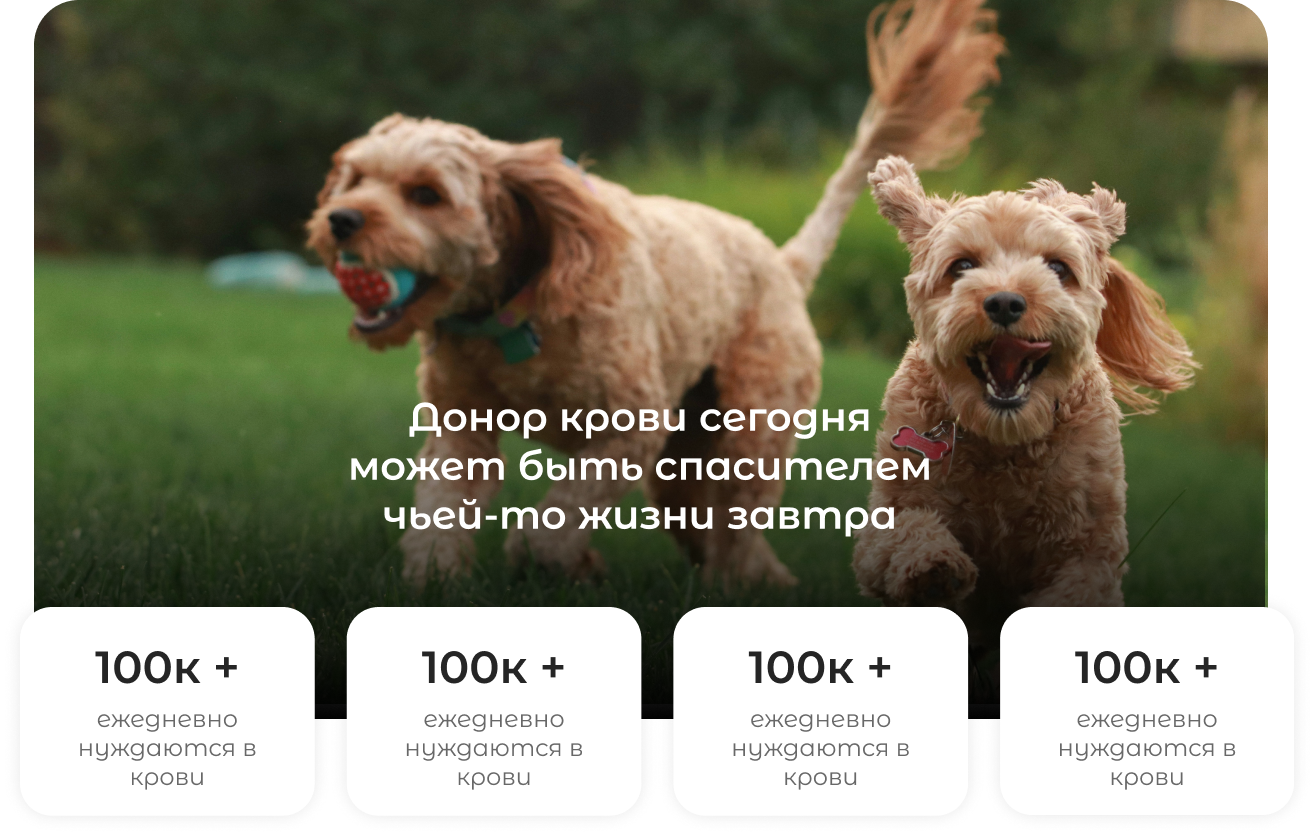
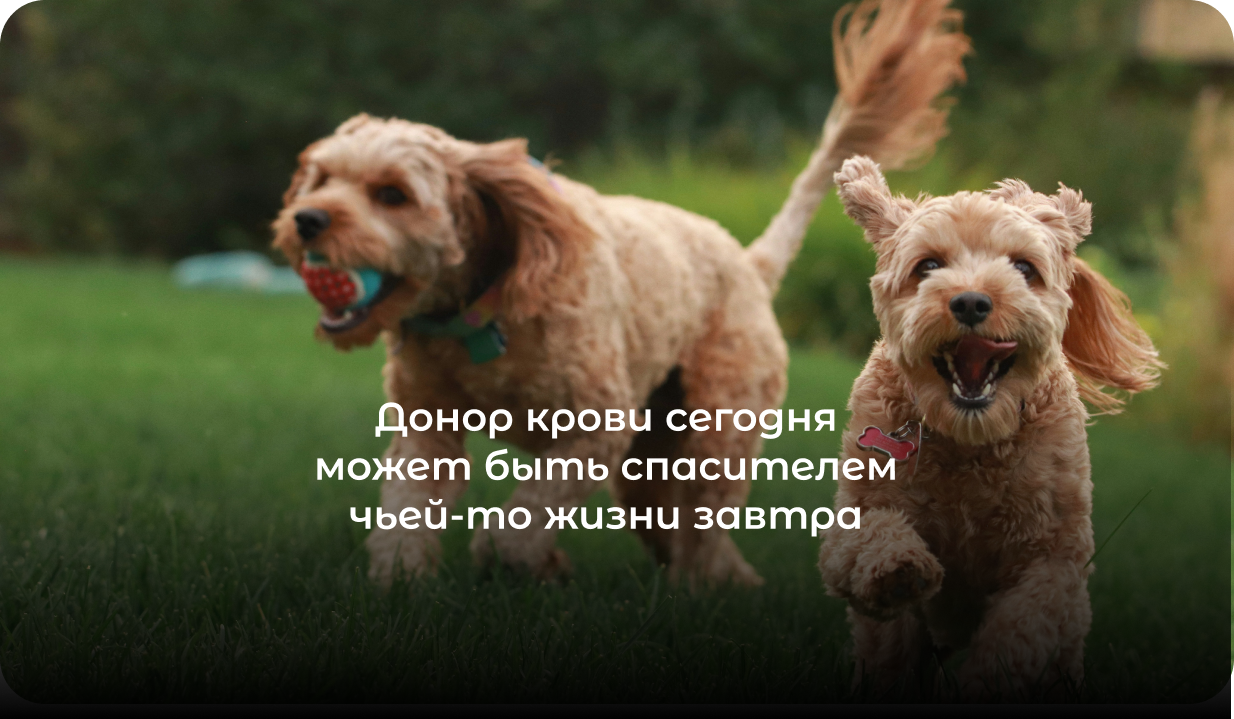
1:22

diff --git a/front_vite/src/components/Question/utils.js b/front_vite/src/components/Question/utils.js
@@ -1,0 +1,9 @@
+export const Questions = [
+    { question: 'Зачем животным сдавать донорскую кровь?', answer: 'Во-первых, владельцы животных-доноров получают возможность контролировать здоровье своего любимца за счет регулярных осмотров ветеринарным врачом и бесплатных анализов крови. Во-вторых, животные-доноры спасают жизни, отдавая ради этого всего лишь часть своей крови.' },
+    { question: 'За какое время восполняется кровь?', answer: 'Во-первых, владельцы животных-доноров получают возможность контролировать здоровье своего любимца за счет регулярных осмотров ветеринарным врачом и бесплатных анализов крови. Во-вторых, животные-доноры спасают жизни, отдавая ради этого всего лишь часть своей крови.' },
+    { question: 'Почему масса кошки должна быть не менее 3кг?', answer: 'Во-первых, владельцы животных-доноров получают возможность контролировать здоровье своего любимца за счет регулярных осмотров ветеринарным врачом и бесплатных анализов крови. Во-вторых, животные-доноры спасают жизни, отдавая ради этого всего лишь часть своей крови.' },
+    { question: 'Почему масса собаки должна быть не менее 20кг?', answer: 'Во-первых, владельцы животных-доноров получают возможность контролировать здоровье своего любимца за счет регулярных осмотров ветеринарным врачом и бесплатных анализов крови. Во-вторых, животные-доноры спасают жизни, отдавая ради этого всего лишь часть своей крови.' },
+    { question: 'Нужно ли мне держать своего питомца при процедуре?', answer: 'Во-первых, владельцы животных-доноров получают возможность контролировать здоровье своего любимца за счет регулярных осмотров ветеринарным врачом и бесплатных анализов крови. Во-вторых, животные-доноры спасают жизни, отдавая ради этого всего лишь часть своей крови.' },
+    { question: 'Как часто сдается кровь?', answer: 'Во-первых, владельцы животных-доноров получают возможность контролировать здоровье своего любимца за счет регулярных осмотров ветеринарным врачом и бесплатных анализов крови. Во-вторых, животные-доноры спасают жизни, отдавая ради этого всего лишь часть своей крови.' },
+    { question: 'Требуется ли подготовка питомца к донации?', answer: 'Во-первых, владельцы животных-доноров получают возможность контролировать здоровье своего любимца за счет регулярных осмотров ветеринарным врачом и бесплатных анализов крови. Во-вторых, животные-доноры спасают жизни, отдавая ради этого всего лишь часть своей крови.' },
+];

diff --git a/front_vite/src/pages/Home/Home.jsx b/front_vite/src/pages/Home/Home.jsx
@@ -7,12 +7,23 @@ import { Instruction } from '../../components/Block/utils.js';
 import Block from '../../components/Block/Block.jsx';
 import FastCard from '../../components/FastCard/FastCard.jsx';
 import { FastPets } from '../../components/FastCard/utils.js';
-
+import Article from '../../components/Article/Article.jsx';
+import Question from '../../components/Question/Question.jsx';
+import { Questions } from '../../components/Question/utils.js';
+import Answer from '../../components/Question/Answer.jsx';
+import react, {useState} from 'react';
+import Footer from '../../components/Footer/Footer.jsx';
 
 const Home = () => {
+    const [selectedQuestion, setSelectedQuestion] = useState(null);
+
+    const handleSelect = (question) => {
+        setSelectedQuestion(question);
+    };
     return (
         <div className='home'>
             <Header />
+            <div className='main'>
             <Banner />
             <h2 className='home__title'>Им подарили новую жизнь</h2>
             <div className='home__cards'>
@@ -51,9 +62,40 @@ const Home = () => {
                 }
             </div>
             <div className='home__blockinfo-wrap'>
-                <div className='home__blockinfo'></div>
+                    <div className='home__blockinfo'></div>
             </div>
             <h2 className='home__title'>Рекомендуем к прочтению</h2>
+            <div className='home__articles'>
+                <Article />
+                <Article />
+                <Article />
+            </div>
+            <button className='home__more-articles'>Все статьи</button>
+            {/* <div className="home__faq">
+                <div className='home__questions'>
+                    {
+                        Questions.map((data, index) => {
+                        return (
+                            <Question key={index} data={data} />
+                        )
+                    })
+                    }
+                </div>
+                <div className='home__answer'></div>
+                
+            </div> */}
+            <div className="home__faq">
+            <div className='home__questions'>
+                {Questions.map((data, index) => (
+                <Question key={index} data={data} handleSelect={handleSelect} isSelected={selectedQuestion === data} />
+                ))}
+            </div>
+            <div className='home__answer'>
+                {selectedQuestion && <Answer answer={selectedQuestion.answer} />}
+            </div>
+            </div>
+            </div>
+        <Footer />
         </div>
         
     )

diff --git a/front_vite/src/pages/Home/Home.scss b/front_vite/src/pages/Home/Home.scss
@@ -80,6 +80,55 @@
         margin-bottom: 50px;
     }
     &__blockinfo {
-        display: block;
+        display: flex;
+        background-image: url('./blockinfo.png');
+        background-size: cover;
+        width: 1234px;
+        height: 704px;
+        border-radius: 45px;
+    }
+    &__blockinfo-wrap{
+        width: 1274.118px;
+        height: 815.71px;
+    }
+    &__articles{
+        display: flex;
+        gap: 40px;
+    }
+    &__more-articles{
+        display: inline-flex;
+        padding: 19.077px;
+        justify-content: center;
+        align-items: center;
+        gap: 9.538px;
+        border-radius: 28.615px;
+        background: #FF6565;
+        color: #FFF;
+        font-family: "Montserrat Alternates";
+        font-size: 19.077px;
+        font-style: normal;
+        font-weight: 600;
+        line-height: normal;
+        margin-bottom: 50px;
+    }
+    &__faq{
+        width: 1248px;
+        height: 891px;
+        display: flex;
+        padding: 40px 40px 24px 40px;
+        align-items: flex-start;
+        flex-shrink: 0;
+        border-radius: 45px;
+        background: #FFF;
+        box-shadow: 0px 35px 78px 0px rgba(112, 102, 102, 0.10), 0px 141px 141px 0px rgba(112, 102, 102, 0.09), 0px 317px 190px 0px rgba(112, 102, 102, 0.05), 0px 564px 226px 0px rgba(112, 102, 102, 0.01), 0px 882px 247px 0px rgba(112, 102, 102, 0.00);
+        margin-bottom: 150px;
+    }
+    &__questions{
+        width: 572px;
+        display: flex;
+        padding: 0px 8px 344px 0px;
+        flex-direction: column;
+        align-items: flex-start;
+
     }
 }

diff --git a/front_vite/src/components/Question/Question.jsx b/front_vite/src/components/Question/Question.jsx
@@ -1,0 +1,60 @@
+// import './Question.scss';
+
+// const Question = ({data}) => {
+//     return (
+//     <div className="questions">
+//         <button className="questions__text">
+//             {data.question}
+//         </button> 
+//         <div className="questions__icon"></div>
+//     </div>
+
+// );
+// }
+ 
+// export default Question;
+// import React, { useState } from 'react';
+// import './Question.scss';
+
+// const Question = ({ data, handleSelect, isSelected }) => {
+//   return (
+//     <div className={`questions ${isSelected ? 'active' : ''}`}>
+//       <button className="questions__text" onClick={() => handleSelect(data)}>
+//         {data.question}
+//       </button>
+//       <div className="questions__icon"></div>
+//     </div>
+//   );
+// };
+
+// export default Question;
+import React, { useState } from 'react';
+import './Question.scss';
+
+const Question = ({ data, handleSelect, isSelected }) => {
+  const [isActive, setIsActive] = useState(false);
+
+  const handleActive = () => {
+    setIsActive(true);
+    handleSelect(data);
+  };
+
+  const handleInactive = () => {
+    setIsActive(false);
+  };
+
+  return (
+    <div className={`questions ${isActive ? 'active' : ''}`}>
+      <button
+        className="questions__text"
+        onClick={handleActive}
+        onMouseLeave={handleInactive}
+      >
+        {data.question}
+      </button>
+      <div className="questions__icon"></div>
+    </div>
+  );
+};
+
+export default Question;

diff --git a/front_vite/src/components/Article/Article.scss b/front_vite/src/components/Article/Article.scss
@@ -1,0 +1,51 @@
+.article{
+    display: flex;
+    flex-direction: column;
+    width: 384px;
+    height: 547px;
+    gap: 15px;
+    &__img{
+        width: 384px;
+        height: 352px;
+        flex-shrink: 0;
+        border-radius: 45px;
+        background: #D9D9D9;
+    }
+    &__topics{
+        display: flex;
+        gap: 10px;
+    }
+    &__topic{
+        display: flex;
+        padding: 8px;
+        align-items: flex-start;
+        gap: 8px;
+        border-radius: 32px;
+        border: 1px solid #DADADA;
+        background: #FFF;
+        color: #6C6C6C;
+        font-family: "Montserrat Alternates";
+        font-size: 16px;
+        font-style: normal;
+        font-weight: 500;
+        line-height: normal;
+    }
+    &__title{
+        color: #3F3F3F;
+        font-family: "Montserrat Alternates";
+        font-size: 24px;
+        font-style: normal;
+        font-weight: 600;
+        line-height: normal;
+    }
+    &__link{
+        color: #FF6565;
+        font-family: "Montserrat Alternates";
+        font-size: 16px;
+        font-style: normal;
+        font-weight: 600;
+        line-height: normal;
+        cursor: pointer;
+        text-decoration: underline;
+    }
+}

diff --git a/front_vite/src/components/Question/Question.scss b/front_vite/src/components/Question/Question.scss
@@ -1,0 +1,47 @@
+.questions {
+    display: flex;
+    padding: 16px 24px;
+    align-items: flex-start;
+    border-radius: 24px;
+    border: 1px solid #e7eeec;
+    background: rgba(79, 59, 59, 0.02);
+    color: #372928;
+    font-family: 'Montserrat Alternates';
+    font-size: 24px;
+    font-style: normal;
+    font-weight: 600;
+    line-height: 28px;
+    width: 564px;
+    max-height: 98px;
+    justify-content: space-between;
+    &:active {
+        background-color: #141024;
+        color: #fff;
+    }
+    &:focus {
+        background-color: #141024;
+        color: #fff;
+    }
+    &__icon {
+        background-image: url(./star.svg);
+        width: 24px;
+        height: 24px;
+    }
+    &__text {
+        flex-shrink: 0;
+        color: #372928;
+        font-family: 'Montserrat Alternates';
+        font-size: 24px;
+        font-style: normal;
+        font-weight: 600;
+        line-height: 28px /* 116.667% */;
+        &:active {
+            background-color: #141024;
+            color: #fff;
+        }
+        &:focus {
+            background-color: #141024;
+            color: #fff;
+        }
+    }
+}

diff --git a/front_vite/src/components/Article/Article.jsx b/front_vite/src/components/Article/Article.jsx
@@ -1,0 +1,17 @@
+import './Article.scss'
+
+const Article = () => {
+    return (
+        <div className="article">
+            <img src="" className="article__img"></img>
+            <div className="article__topics">
+                <span className="article__topic">Познавательно</span>
+                <span className="article__topic">Донорам</span>
+            </div>
+            <h3 className="article__title">Почему вашему питомцу нужно быть донором</h3>
+            <a className="article__link">Читать</a>
+        </div>
+      );
+}
+ 
+export default Article;

diff --git a/front_vite/src/components/Question/Answer.jsx b/front_vite/src/components/Question/Answer.jsx
@@ -1,0 +1,24 @@
+// import './Answer.scss';
+
+
+// const Answer = ({ data }) => {
+//     return (<div className="answer">
+//         <div className="answer__icon"></div>
+//         <p className="answer__text">{data.answer}</p>
+//     </div>);
+// };
+
+// export default Answer;
+import React from 'react';
+import './Answer.scss';
+
+const Answer = ({ answer }) => {
+  return (
+    <div className="answer">
+      <div className="answer__icon"></div>
+      <p className="answer__text">{answer}</p>
+    </div>
+  );
+};
+
+export default Answer;

diff --git a/front_vite/src/components/Question/Answer.scss b/front_vite/src/components/Question/Answer.scss
@@ -1,0 +1,13 @@
+.answer {
+    display: flex;
+    padding: 8px;
+    align-items: flex-start;
+    border-radius: 24px;
+    border: 4px solid #ff5b56;
+    width: 556px;
+    &__icon {
+        background-image: url(./star.svg);
+        width: 24px;
+        height: 24px;
+    }
+}

diff --git a/front_vite/src/pages/CardRequest/CardRequest.scss b/front_vite/src/pages/CardRequest/CardRequest.scss
@@ -8,7 +8,7 @@
     display: flex;
     padding-top: 75px;
     flex-direction: column;
-    width: 1200px;
+    width: 1248px;
     gap: 10px;
     &__header {
         display: flex;

diff --git a/front_vite/src/components/Footer/Footer.jsx b/front_vite/src/components/Footer/Footer.jsx
@@ -1,0 +1,11 @@
+import './Footer.scss';
+
+const Footer = () => {
+    return (
+        <div className="footer">
+
+        </div>
+    );
+}
+ 
+export default Footer;

diff --git a/front_vite/src/pages/Account/Account.scss b/front_vite/src/pages/Account/Account.scss
@@ -7,6 +7,6 @@
         display: flex;
         justify-content: space-between;
         padding-top: 75px;
-        width: 1200px;
+        width: 1248px;
     }
 }
